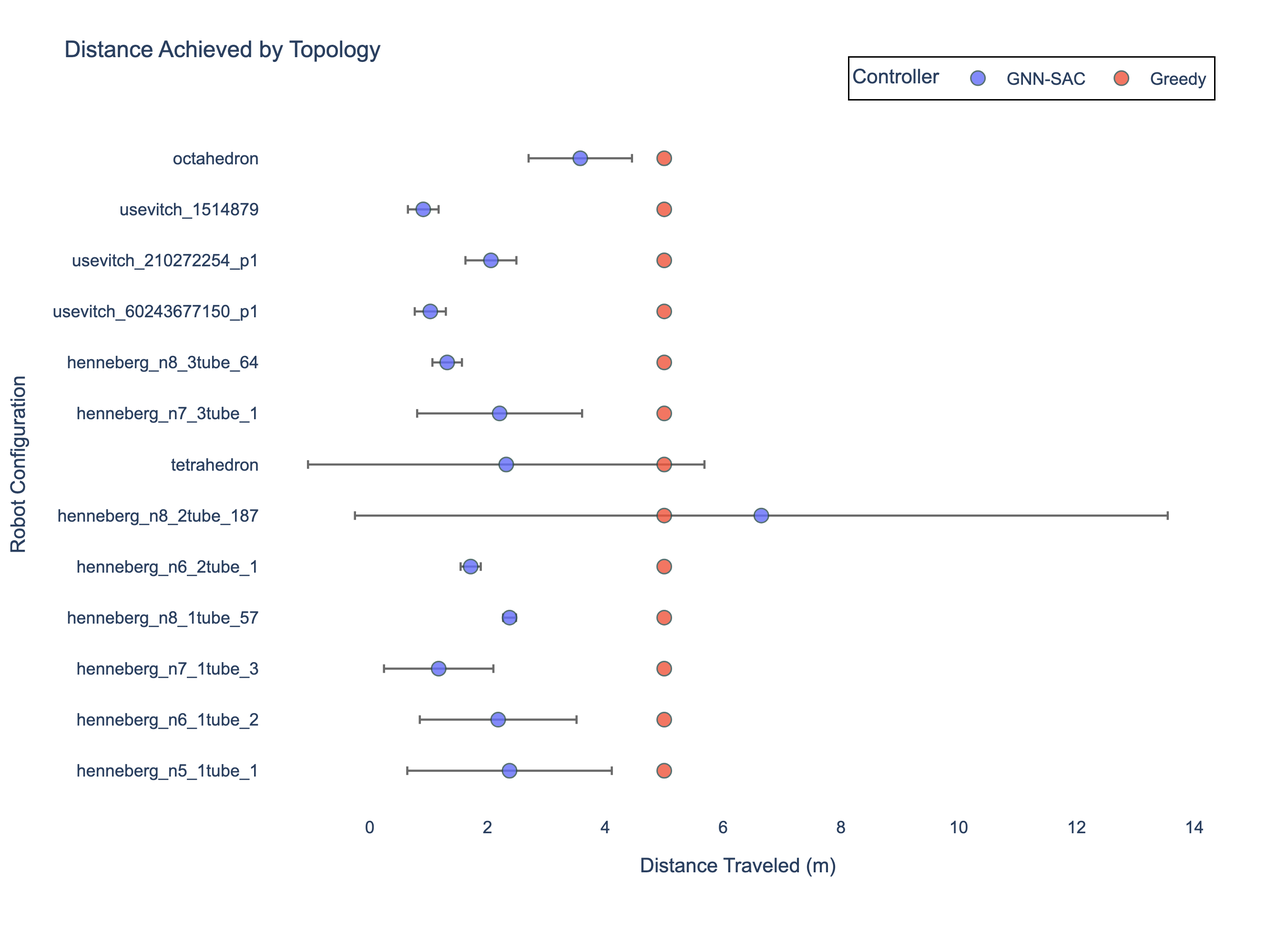
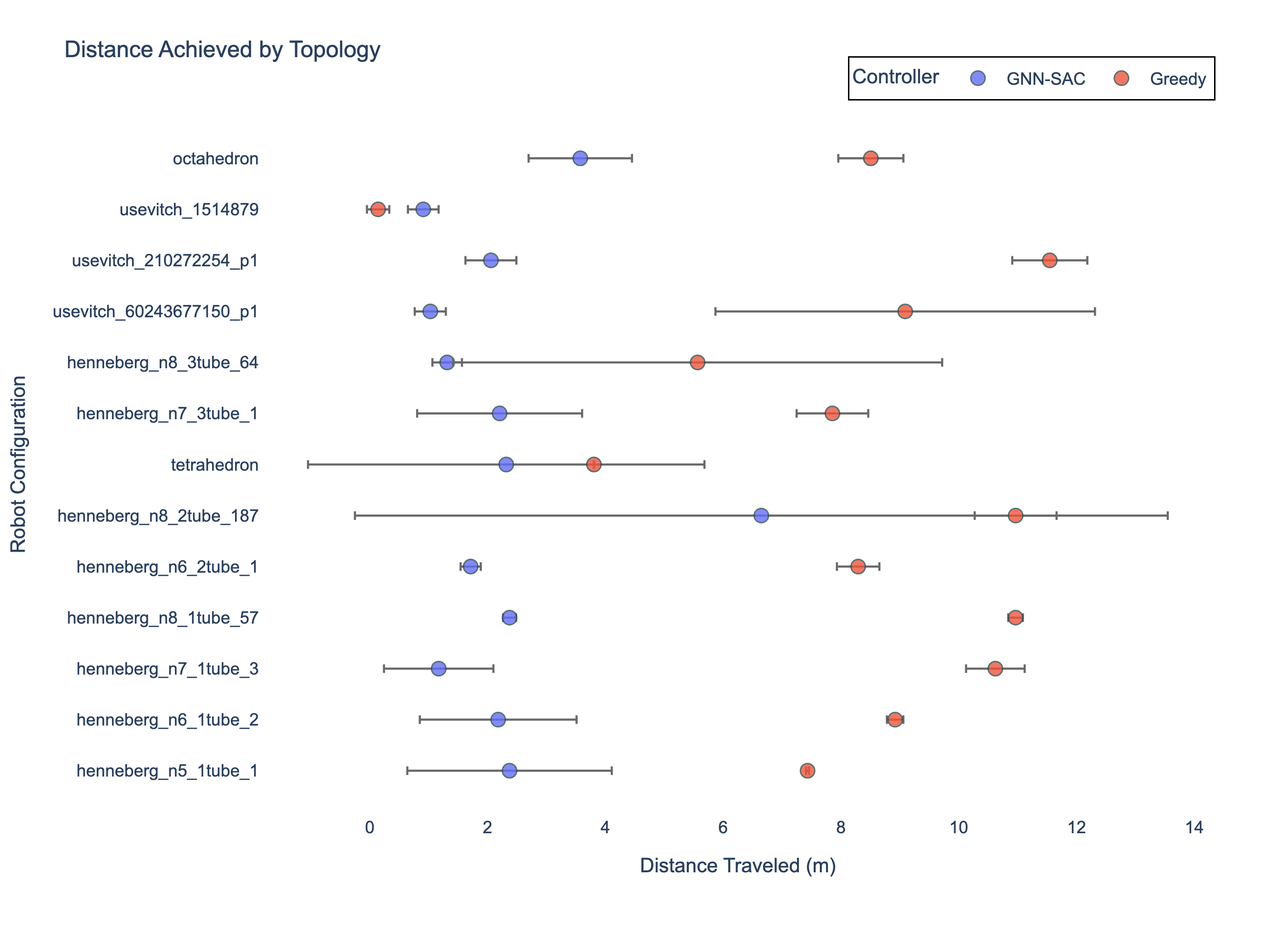
feat: plot measured greedy controller results

diff --git a/figures/distance_achieved_by_topology.html b/figures/distance_achieved_by_topology.html
@@ -2,6 +2,6 @@
 <head><meta charset="utf-8" /></head>
 <body>
     <div style="height:650px; width:900px;">                        <script>window.PlotlyConfig = {MathJaxConfig: 'local'};</script>
-        <script charset="utf-8" src="https://cdn.plot.ly/plotly-3.7.0.min.js" integrity="sha256-jvTGqxNp8AGWEcvNLVuKr+8j5dGe9Yw51LQkmDH+IYA=" crossorigin="anonymous"></script>                <div id="b5c908f1-36f0-49f9-b004-f3093df949d6" class="plotly-graph-div" style="height:100%; width:100%;"></div>            <script>                window.PLOTLYENV=window.PLOTLYENV || {};                                if (document.getElementById("b5c908f1-36f0-49f9-b004-f3093df949d6")) {                    Plotly.newPlot(                        "b5c908f1-36f0-49f9-b004-f3093df949d6",                        [{"customdata":{"dtype":"f8","bdata":"AAAAAAAACEAsBLjag8f7PwAAAAAAAAhAwbUco69K9T8AAAAAAAAIQHwbFSAoue0\u002fAAAAAAAACEAtQBm92wK8PwAAAAAAAAhAKJEHEYzhxT8AAAAAAAAIQPhhJsMNmhtAAAAAAAAACECdcKguCe0KQAAAAAAAAAhAm1oek8Jn9j8AAAAAAAAIQJLF910WDNA\u002fAAAAAAAACEDxzGaMtefQPwAAAAAAAAhAOjjf\u002f5Ku2z8AAAAAAAAIQMV0hl6prNA\u002fAAAAAAAAAECoL99Q9RXsPw==","shape":"13, 2"},"error_x":{"array":{"dtype":"f8","bdata":"LAS42oPH+z\u002fBtRyjr0r1P3wbFSAoue0\u002fLUAZvdsCvD8okQcRjOHFP\u002fhhJsMNmhtAnXCoLgntCkCbWh6Twmf2P5LF910WDNA\u002f8cxmjLXn0D86ON\u002f\u002fkq7bP8V0hl6prNA\u002fqC\u002ffUPUV7D8="},"color":"dimgray","thickness":1.5,"width":3},"hovertemplate":"Controller=GNN-SAC\u003cbr\u003eDistance Traveled (m)=%{x}\u003cbr\u003eRobot Configuration=%{y}\u003cbr\u003en_seeds=%{customdata[0]}\u003cbr\u003edistance_std_m=%{customdata[1]:.3f}\u003cextra\u003e\u003c\u002fextra\u003e","legendgroup":"GNN-SAC","marker":{"color":"#636EFA","symbol":"circle","line":{"color":"DarkSlateGrey","width":1},"opacity":0.8,"size":10},"mode":"markers","name":"GNN-SAC","orientation":"h","showlegend":true,"x":{"dtype":"f8","bdata":"4XC+PC78AkALuNlbzXABQD6tfDz5uPI\u002fk9DLrWn9AkDp6QR5TGr7PxFnb+w0mBpAzomSV3SJAkCF4WCiW6MBQLHZzOyaB\u002fU\u002fHXe9cPpw8D+0BgoE+XQAQPH78XPvD+0\u002f8DwwUG+YDEA="},"xaxis":"x","y":["henneberg_n5_1tube_1","henneberg_n6_1tube_2","henneberg_n7_1tube_3","henneberg_n8_1tube_57","henneberg_n6_2tube_1","henneberg_n8_2tube_187","tetrahedron","henneberg_n7_3tube_1","henneberg_n8_3tube_64","usevitch_60243677150_p1","usevitch_210272254_p1","usevitch_1514879","octahedron"],"yaxis":"y","type":"scatter"},{"customdata":{"dtype":"f8","bdata":"AAAAAAAAAAAAAAAAAAD4fwAAAAAAAAAAAAAAAAAA+H8AAAAAAAAAAAAAAAAAAPh\u002fAAAAAAAAAAAAAAAAAAD4fwAAAAAAAAAAAAAAAAAA+H8AAAAAAAAAAAAAAAAAAPh\u002fAAAAAAAAAAAAAAAAAAD4fwAAAAAAAAAAAAAAAAAA+H8AAAAAAAAAAAAAAAAAAPh\u002fAAAAAAAAAAAAAAAAAAD4fwAAAAAAAAAAAAAAAAAA+H8AAAAAAAAAAAAAAAAAAPh\u002fAAAAAAAAAAAAAAAAAAD4fw==","shape":"13, 2"},"error_x":{"array":{"dtype":"f8","bdata":"AAAAAAAA+H8AAAAAAAD4fwAAAAAAAPh\u002fAAAAAAAA+H8AAAAAAAD4fwAAAAAAAPh\u002fAAAAAAAA+H8AAAAAAAD4fwAAAAAAAPh\u002fAAAAAAAA+H8AAAAAAAD4fwAAAAAAAPh\u002fAAAAAAAA+H8="},"color":"dimgray","thickness":1.5,"width":3},"hovertemplate":"Controller=Greedy\u003cbr\u003eDistance Traveled (m)=%{x}\u003cbr\u003eRobot Configuration=%{y}\u003cbr\u003en_seeds=%{customdata[0]}\u003cbr\u003edistance_std_m=%{customdata[1]:.3f}\u003cextra\u003e\u003c\u002fextra\u003e","legendgroup":"Greedy","marker":{"color":"#EF553B","symbol":"circle","line":{"color":"DarkSlateGrey","width":1},"opacity":0.8,"size":10},"mode":"markers","name":"Greedy","orientation":"h","showlegend":true,"x":{"dtype":"f8","bdata":"AAAAAAAAFEAAAAAAAAAUQAAAAAAAABRAAAAAAAAAFEAAAAAAAAAUQAAAAAAAABRAAAAAAAAAFEAAAAAAAAAUQAAAAAAAABRAAAAAAAAAFEAAAAAAAAAUQAAAAAAAABRAAAAAAAAAFEA="},"xaxis":"x","y":["henneberg_n5_1tube_1","henneberg_n6_1tube_2","henneberg_n7_1tube_3","henneberg_n8_1tube_57","henneberg_n6_2tube_1","henneberg_n8_2tube_187","tetrahedron","henneberg_n7_3tube_1","henneberg_n8_3tube_64","usevitch_60243677150_p1","usevitch_210272254_p1","usevitch_1514879","octahedron"],"yaxis":"y","type":"scatter"}],                        {"template":{"data":{"histogram2dcontour":[{"type":"histogram2dcontour","colorbar":{"outlinewidth":0,"ticks":""},"colorscale":[[0.0,"#0d0887"],[0.1111111111111111,"#46039f"],[0.2222222222222222,"#7201a8"],[0.3333333333333333,"#9c179e"],[0.4444444444444444,"#bd3786"],[0.5555555555555556,"#d8576b"],[0.6666666666666666,"#ed7953"],[0.7777777777777778,"#fb9f3a"],[0.8888888888888888,"#fdca26"],[1.0,"#f0f921"]]}],"choropleth":[{"type":"choropleth","colorbar":{"outlinewidth":0,"ticks":""}}],"histogram2d":[{"type":"histogram2d","colorbar":{"outlinewidth":0,"ticks":""},"colorscale":[[0.0,"#0d0887"],[0.1111111111111111,"#46039f"],[0.2222222222222222,"#7201a8"],[0.3333333333333333,"#9c179e"],[0.4444444444444444,"#bd3786"],[0.5555555555555556,"#d8576b"],[0.6666666666666666,"#ed7953"],[0.7777777777777778,"#fb9f3a"],[0.8888888888888888,"#fdca26"],[1.0,"#f0f921"]]}],"heatmap":[{"type":"heatmap","colorbar":{"outlinewidth":0,"ticks":""},"colorscale":[[0.0,"#0d0887"],[0.1111111111111111,"#46039f"],[0.2222222222222222,"#7201a8"],[0.3333333333333333,"#9c179e"],[0.4444444444444444,"#bd3786"],[0.5555555555555556,"#d8576b"],[0.6666666666666666,"#ed7953"],[0.7777777777777778,"#fb9f3a"],[0.8888888888888888,"#fdca26"],[1.0,"#f0f921"]]}],"contourcarpet":[{"type":"contourcarpet","colorbar":{"outlinewidth":0,"ticks":""}}],"contour":[{"type":"contour","colorbar":{"outlinewidth":0,"ticks":""},"colorscale":[[0.0,"#0d0887"],[0.1111111111111111,"#46039f"],[0.2222222222222222,"#7201a8"],[0.3333333333333333,"#9c179e"],[0.4444444444444444,"#bd3786"],[0.5555555555555556,"#d8576b"],[0.6666666666666666,"#ed7953"],[0.7777777777777778,"#fb9f3a"],[0.8888888888888888,"#fdca26"],[1.0,"#f0f921"]]}],"surface":[{"type":"surface","colorbar":{"outlinewidth":0,"ticks":""},"colorscale":[[0.0,"#0d0887"],[0.1111111111111111,"#46039f"],[0.2222222222222222,"#7201a8"],[0.3333333333333333,"#9c179e"],[0.4444444444444444,"#bd3786"],[0.5555555555555556,"#d8576b"],[0.6666666666666666,"#ed7953"],[0.7777777777777778,"#fb9f3a"],[0.8888888888888888,"#fdca26"],[1.0,"#f0f921"]]}],"mesh3d":[{"type":"mesh3d","colorbar":{"outlinewidth":0,"ticks":""}}],"scatter":[{"fillpattern":{"fillmode":"overlay","size":10,"solidity":0.2},"type":"scatter"}],"parcoords":[{"type":"parcoords","line":{"colorbar":{"outlinewidth":0,"ticks":""}}}],"scatterpolargl":[{"type":"scatterpolargl","marker":{"colorbar":{"outlinewidth":0,"ticks":""}}}],"bar":[{"error_x":{"color":"#2a3f5f"},"error_y":{"color":"#2a3f5f"},"marker":{"line":{"color":"#E5ECF6","width":0.5},"pattern":{"fillmode":"overlay","size":10,"solidity":0.2}},"type":"bar"}],"scattergeo":[{"type":"scattergeo","marker":{"colorbar":{"outlinewidth":0,"ticks":""}}}],"scatterpolar":[{"type":"scatterpolar","marker":{"colorbar":{"outlinewidth":0,"ticks":""}}}],"histogram":[{"marker":{"pattern":{"fillmode":"overlay","size":10,"solidity":0.2}},"type":"histogram"}],"scattergl":[{"type":"scattergl","marker":{"colorbar":{"outlinewidth":0,"ticks":""}}}],"scatter3d":[{"type":"scatter3d","line":{"colorbar":{"outlinewidth":0,"ticks":""}},"marker":{"colorbar":{"outlinewidth":0,"ticks":""}}}],"scattermap":[{"type":"scattermap","marker":{"colorbar":{"outlinewidth":0,"ticks":""}}}],"scattermapbox":[{"type":"scattermapbox","marker":{"colorbar":{"outlinewidth":0,"ticks":""}}}],"scatterternary":[{"type":"scatterternary","marker":{"colorbar":{"outlinewidth":0,"ticks":""}}}],"scattercarpet":[{"type":"scattercarpet","marker":{"colorbar":{"outlinewidth":0,"ticks":""}}}],"carpet":[{"aaxis":{"endlinecolor":"#2a3f5f","gridcolor":"white","linecolor":"white","minorgridcolor":"white","startlinecolor":"#2a3f5f"},"baxis":{"endlinecolor":"#2a3f5f","gridcolor":"white","linecolor":"white","minorgridcolor":"white","startlinecolor":"#2a3f5f"},"type":"carpet"}],"table":[{"cells":{"fill":{"color":"#EBF0F8"},"line":{"color":"white"}},"header":{"fill":{"color":"#C8D4E3"},"line":{"color":"white"}},"type":"table"}],"barpolar":[{"marker":{"line":{"color":"#E5ECF6","width":0.5},"pattern":{"fillmode":"overlay","size":10,"solidity":0.2}},"type":"barpolar"}],"pie":[{"automargin":true,"type":"pie"}]},"layout":{"autotypenumbers":"strict","colorway":["#636efa","#EF553B","#00cc96","#ab63fa","#FFA15A","#19d3f3","#FF6692","#B6E880","#FF97FF","#FECB52"],"font":{"color":"#2a3f5f"},"hovermode":"closest","hoverlabel":{"align":"left"},"paper_bgcolor":"white","plot_bgcolor":"#E5ECF6","polar":{"bgcolor":"#E5ECF6","angularaxis":{"gridcolor":"white","linecolor":"white","ticks":""},"radialaxis":{"gridcolor":"white","linecolor":"white","ticks":""}},"ternary":{"bgcolor":"#E5ECF6","aaxis":{"gridcolor":"white","linecolor":"white","ticks":""},"baxis":{"gridcolor":"white","linecolor":"white","ticks":""},"caxis":{"gridcolor":"white","linecolor":"white","ticks":""}},"coloraxis":{"colorbar":{"outlinewidth":0,"ticks":""}},"colorscale":{"sequential":[[0.0,"#0d0887"],[0.1111111111111111,"#46039f"],[0.2222222222222222,"#7201a8"],[0.3333333333333333,"#9c179e"],[0.4444444444444444,"#bd3786"],[0.5555555555555556,"#d8576b"],[0.6666666666666666,"#ed7953"],[0.7777777777777778,"#fb9f3a"],[0.8888888888888888,"#fdca26"],[1.0,"#f0f921"]],"sequentialminus":[[0.0,"#0d0887"],[0.1111111111111111,"#46039f"],[0.2222222222222222,"#7201a8"],[0.3333333333333333,"#9c179e"],[0.4444444444444444,"#bd3786"],[0.5555555555555556,"#d8576b"],[0.6666666666666666,"#ed7953"],[0.7777777777777778,"#fb9f3a"],[0.8888888888888888,"#fdca26"],[1.0,"#f0f921"]],"diverging":[[0,"#8e0152"],[0.1,"#c51b7d"],[0.2,"#de77ae"],[0.3,"#f1b6da"],[0.4,"#fde0ef"],[0.5,"#f7f7f7"],[0.6,"#e6f5d0"],[0.7,"#b8e186"],[0.8,"#7fbc41"],[0.9,"#4d9221"],[1,"#276419"]]},"xaxis":{"gridcolor":"white","linecolor":"white","ticks":"","title":{"standoff":15},"zerolinecolor":"white","automargin":true,"zerolinewidth":2},"yaxis":{"gridcolor":"white","linecolor":"white","ticks":"","title":{"standoff":15},"zerolinecolor":"white","automargin":true,"zerolinewidth":2},"scene":{"xaxis":{"backgroundcolor":"#E5ECF6","gridcolor":"white","linecolor":"white","showbackground":true,"ticks":"","zerolinecolor":"white","gridwidth":2},"yaxis":{"backgroundcolor":"#E5ECF6","gridcolor":"white","linecolor":"white","showbackground":true,"ticks":"","zerolinecolor":"white","gridwidth":2},"zaxis":{"backgroundcolor":"#E5ECF6","gridcolor":"white","linecolor":"white","showbackground":true,"ticks":"","zerolinecolor":"white","gridwidth":2}},"shapedefaults":{"line":{"color":"#2a3f5f"}},"annotationdefaults":{"arrowcolor":"#2a3f5f","arrowhead":0,"arrowwidth":1},"geo":{"bgcolor":"white","landcolor":"#E5ECF6","subunitcolor":"white","showland":true,"showlakes":true,"lakecolor":"white"},"title":{"x":0.05},"mapbox":{"style":"light"}}},"xaxis":{"anchor":"y","domain":[0.0,1.0],"title":{"text":"Distance Traveled (m)","font":{"size":14}},"tickfont":{"size":12},"showgrid":false},"yaxis":{"anchor":"x","domain":[0.0,1.0],"title":{"text":"Robot Configuration","font":{"size":14}},"categoryorder":"array","categoryarray":["henneberg_n5_1tube_1","henneberg_n6_1tube_2","henneberg_n7_1tube_3","henneberg_n8_1tube_57","henneberg_n6_2tube_1","henneberg_n8_2tube_187","tetrahedron","henneberg_n7_3tube_1","henneberg_n8_3tube_64","usevitch_60243677150_p1","usevitch_210272254_p1","usevitch_1514879","octahedron"],"tickfont":{"size":12},"showgrid":false},"legend":{"title":{"text":"Controller"},"tracegroupgap":0,"font":{"size":12},"orientation":"h","yanchor":"bottom","y":1.02,"xanchor":"right","x":1,"bgcolor":"rgba(255,255,255,0.7)","bordercolor":"black","borderwidth":1},"title":{"text":"Distance Achieved by Topology","font":{"size":16}},"font":{"family":"Arial","size":12},"margin":{"l":100,"r":50,"t":80,"b":80},"plot_bgcolor":"white","paper_bgcolor":"white","width":900,"height":650},                        {"responsive": true}                    )                };            </script>        </div>
+        <script charset="utf-8" src="https://cdn.plot.ly/plotly-3.7.0.min.js" integrity="sha256-jvTGqxNp8AGWEcvNLVuKr+8j5dGe9Yw51LQkmDH+IYA=" crossorigin="anonymous"></script>                <div id="e9306b8b-1fdd-4f87-9530-d86e20cd4594" class="plotly-graph-div" style="height:100%; width:100%;"></div>            <script>                window.PLOTLYENV=window.PLOTLYENV || {};                                if (document.getElementById("e9306b8b-1fdd-4f87-9530-d86e20cd4594")) {                    Plotly.newPlot(                        "e9306b8b-1fdd-4f87-9530-d86e20cd4594",                        [{"customdata":{"dtype":"f8","bdata":"AAAAAAAACEAsBLjag8f7PwAAAAAAAAhAwbUco69K9T8AAAAAAAAIQHwbFSAoue0\u002fAAAAAAAACEArQBm92wK8PwAAAAAAAAhAJ5EHEYzhxT8AAAAAAAAIQPhhJsMNmhtAAAAAAAAACECdcKguCe0KQAAAAAAAAAhAm1oek8Jn9j8AAAAAAAAIQJLF910WDNA\u002fAAAAAAAACEDwzGaMtefQPwAAAAAAAAhAOTjf\u002f5Ku2z8AAAAAAAAIQMR0hl6prNA\u002fAAAAAAAAAECoL99Q9RXsPw==","shape":"13, 2"},"error_x":{"array":{"dtype":"f8","bdata":"LAS42oPH+z\u002fBtRyjr0r1P3wbFSAoue0\u002fK0AZvdsCvD8nkQcRjOHFP\u002fhhJsMNmhtAnXCoLgntCkCbWh6Twmf2P5LF910WDNA\u002f8MxmjLXn0D85ON\u002f\u002fkq7bP8R0hl6prNA\u002fqC\u002ffUPUV7D8="},"color":"dimgray","thickness":1.5,"width":3},"hovertemplate":"Controller=GNN-SAC\u003cbr\u003eDistance Traveled (m)=%{x}\u003cbr\u003eRobot Configuration=%{y}\u003cbr\u003en_seeds=%{customdata[0]}\u003cbr\u003edistance_std_m=%{customdata[1]:.3f}\u003cextra\u003e\u003c\u002fextra\u003e","legendgroup":"GNN-SAC","marker":{"color":"#636EFA","symbol":"circle","line":{"color":"DarkSlateGrey","width":1},"opacity":0.8,"size":10},"mode":"markers","name":"GNN-SAC","orientation":"h","showlegend":true,"x":{"dtype":"f8","bdata":"4XC+PC78AkALuNlbzXABQD6tfDz5uPI\u002fk9DLrWn9AkDp6QR5TGr7PxFnb+w0mBpAzomSV3SJAkCF4WCiW6MBQLHZzOyaB\u002fU\u002fHXe9cPpw8D+0BgoE+XQAQPL78XPvD+0\u002f8DwwUG+YDEA="},"xaxis":"x","y":["henneberg_n5_1tube_1","henneberg_n6_1tube_2","henneberg_n7_1tube_3","henneberg_n8_1tube_57","henneberg_n6_2tube_1","henneberg_n8_2tube_187","tetrahedron","henneberg_n7_3tube_1","henneberg_n8_3tube_64","usevitch_60243677150_p1","usevitch_210272254_p1","usevitch_1514879","octahedron"],"yaxis":"y","type":"scatter"},{"customdata":{"dtype":"f8","bdata":"AAAAAAAA+H\u002fcEG+2R+yaPwAAAAAAAPh\u002fy+5\u002fjUfXwT8AAAAAAAD4f5Lyhyzd2N8\u002fAAAAAAAA+H8t5hdlZ8a\u002fPwAAAAAAAPh\u002fedsmK4wR1z8AAAAAAAD4f0w\u002fdQ1FQOY\u002fAAAAAAAA+H\u002fweGABHHFsPwAAAAAAAPh\u002f36uyPTR24z8AAAAAAAD4fzOOvrGpmxBAAAAAAAAA+H8rdTB+ecYJQAAAAAAAAPh\u002fULsXY9tk5D8AAAAAAAD4f6ZQq+v7Q8g\u002fAAAAAAAA+H+FBVoahbHhPw==","shape":"13, 2"},"error_x":{"array":{"dtype":"f8","bdata":"3BBvtkfsmj\u002fL7n+NR9fBP5Lyhyzd2N8\u002fLeYXZWfGvz952yYrjBHXP0w\u002fdQ1FQOY\u002f8HhgARxxbD\u002ffq7I9NHbjPzOOvrGpmxBAK3UwfnnGCUBQuxdj22TkP6ZQq+v7Q8g\u002fhQVaGoWx4T8="},"color":"dimgray","thickness":1.5,"width":3},"hovertemplate":"Controller=Greedy\u003cbr\u003eDistance Traveled (m)=%{x}\u003cbr\u003eRobot Configuration=%{y}\u003cbr\u003edistance_std_m=%{customdata[1]:.3f}\u003cextra\u003e\u003c\u002fextra\u003e","legendgroup":"Greedy","marker":{"color":"#EF553B","symbol":"circle","line":{"color":"DarkSlateGrey","width":1},"opacity":0.8,"size":10},"mode":"markers","name":"Greedy","orientation":"h","showlegend":true,"x":{"dtype":"f8","bdata":"6gQ0ETa8HUAICCPAOtchQCx2Xbu4PiVA8wK5TUDuJUCZYPKi3pUgQMqzcAzl7iVAaIcFlMNyDkB\u002fnFjETmwfQGAyyhZbRBZAbGTchfwuIkCGnLuBvxcnQKDN2B9zHcI\u002fmgts2CMEIUA="},"xaxis":"x","y":["henneberg_n5_1tube_1","henneberg_n6_1tube_2","henneberg_n7_1tube_3","henneberg_n8_1tube_57","henneberg_n6_2tube_1","henneberg_n8_2tube_187","tetrahedron","henneberg_n7_3tube_1","henneberg_n8_3tube_64","usevitch_60243677150_p1","usevitch_210272254_p1","usevitch_1514879","octahedron"],"yaxis":"y","type":"scatter"}],                        {"template":{"data":{"histogram2dcontour":[{"type":"histogram2dcontour","colorbar":{"outlinewidth":0,"ticks":""},"colorscale":[[0.0,"#0d0887"],[0.1111111111111111,"#46039f"],[0.2222222222222222,"#7201a8"],[0.3333333333333333,"#9c179e"],[0.4444444444444444,"#bd3786"],[0.5555555555555556,"#d8576b"],[0.6666666666666666,"#ed7953"],[0.7777777777777778,"#fb9f3a"],[0.8888888888888888,"#fdca26"],[1.0,"#f0f921"]]}],"choropleth":[{"type":"choropleth","colorbar":{"outlinewidth":0,"ticks":""}}],"histogram2d":[{"type":"histogram2d","colorbar":{"outlinewidth":0,"ticks":""},"colorscale":[[0.0,"#0d0887"],[0.1111111111111111,"#46039f"],[0.2222222222222222,"#7201a8"],[0.3333333333333333,"#9c179e"],[0.4444444444444444,"#bd3786"],[0.5555555555555556,"#d8576b"],[0.6666666666666666,"#ed7953"],[0.7777777777777778,"#fb9f3a"],[0.8888888888888888,"#fdca26"],[1.0,"#f0f921"]]}],"heatmap":[{"type":"heatmap","colorbar":{"outlinewidth":0,"ticks":""},"colorscale":[[0.0,"#0d0887"],[0.1111111111111111,"#46039f"],[0.2222222222222222,"#7201a8"],[0.3333333333333333,"#9c179e"],[0.4444444444444444,"#bd3786"],[0.5555555555555556,"#d8576b"],[0.6666666666666666,"#ed7953"],[0.7777777777777778,"#fb9f3a"],[0.8888888888888888,"#fdca26"],[1.0,"#f0f921"]]}],"contourcarpet":[{"type":"contourcarpet","colorbar":{"outlinewidth":0,"ticks":""}}],"contour":[{"type":"contour","colorbar":{"outlinewidth":0,"ticks":""},"colorscale":[[0.0,"#0d0887"],[0.1111111111111111,"#46039f"],[0.2222222222222222,"#7201a8"],[0.3333333333333333,"#9c179e"],[0.4444444444444444,"#bd3786"],[0.5555555555555556,"#d8576b"],[0.6666666666666666,"#ed7953"],[0.7777777777777778,"#fb9f3a"],[0.8888888888888888,"#fdca26"],[1.0,"#f0f921"]]}],"surface":[{"type":"surface","colorbar":{"outlinewidth":0,"ticks":""},"colorscale":[[0.0,"#0d0887"],[0.1111111111111111,"#46039f"],[0.2222222222222222,"#7201a8"],[0.3333333333333333,"#9c179e"],[0.4444444444444444,"#bd3786"],[0.5555555555555556,"#d8576b"],[0.6666666666666666,"#ed7953"],[0.7777777777777778,"#fb9f3a"],[0.8888888888888888,"#fdca26"],[1.0,"#f0f921"]]}],"mesh3d":[{"type":"mesh3d","colorbar":{"outlinewidth":0,"ticks":""}}],"scatter":[{"fillpattern":{"fillmode":"overlay","size":10,"solidity":0.2},"type":"scatter"}],"parcoords":[{"type":"parcoords","line":{"colorbar":{"outlinewidth":0,"ticks":""}}}],"scatterpolargl":[{"type":"scatterpolargl","marker":{"colorbar":{"outlinewidth":0,"ticks":""}}}],"bar":[{"error_x":{"color":"#2a3f5f"},"error_y":{"color":"#2a3f5f"},"marker":{"line":{"color":"#E5ECF6","width":0.5},"pattern":{"fillmode":"overlay","size":10,"solidity":0.2}},"type":"bar"}],"scattergeo":[{"type":"scattergeo","marker":{"colorbar":{"outlinewidth":0,"ticks":""}}}],"scatterpolar":[{"type":"scatterpolar","marker":{"colorbar":{"outlinewidth":0,"ticks":""}}}],"histogram":[{"marker":{"pattern":{"fillmode":"overlay","size":10,"solidity":0.2}},"type":"histogram"}],"scattergl":[{"type":"scattergl","marker":{"colorbar":{"outlinewidth":0,"ticks":""}}}],"scatter3d":[{"type":"scatter3d","line":{"colorbar":{"outlinewidth":0,"ticks":""}},"marker":{"colorbar":{"outlinewidth":0,"ticks":""}}}],"scattermap":[{"type":"scattermap","marker":{"colorbar":{"outlinewidth":0,"ticks":""}}}],"scattermapbox":[{"type":"scattermapbox","marker":{"colorbar":{"outlinewidth":0,"ticks":""}}}],"scatterternary":[{"type":"scatterternary","marker":{"colorbar":{"outlinewidth":0,"ticks":""}}}],"scattercarpet":[{"type":"scattercarpet","marker":{"colorbar":{"outlinewidth":0,"ticks":""}}}],"carpet":[{"aaxis":{"endlinecolor":"#2a3f5f","gridcolor":"white","linecolor":"white","minorgridcolor":"white","startlinecolor":"#2a3f5f"},"baxis":{"endlinecolor":"#2a3f5f","gridcolor":"white","linecolor":"white","minorgridcolor":"white","startlinecolor":"#2a3f5f"},"type":"carpet"}],"table":[{"cells":{"fill":{"color":"#EBF0F8"},"line":{"color":"white"}},"header":{"fill":{"color":"#C8D4E3"},"line":{"color":"white"}},"type":"table"}],"barpolar":[{"marker":{"line":{"color":"#E5ECF6","width":0.5},"pattern":{"fillmode":"overlay","size":10,"solidity":0.2}},"type":"barpolar"}],"pie":[{"automargin":true,"type":"pie"}]},"layout":{"autotypenumbers":"strict","colorway":["#636efa","#EF553B","#00cc96","#ab63fa","#FFA15A","#19d3f3","#FF6692","#B6E880","#FF97FF","#FECB52"],"font":{"color":"#2a3f5f"},"hovermode":"closest","hoverlabel":{"align":"left"},"paper_bgcolor":"white","plot_bgcolor":"#E5ECF6","polar":{"bgcolor":"#E5ECF6","angularaxis":{"gridcolor":"white","linecolor":"white","ticks":""},"radialaxis":{"gridcolor":"white","linecolor":"white","ticks":""}},"ternary":{"bgcolor":"#E5ECF6","aaxis":{"gridcolor":"white","linecolor":"white","ticks":""},"baxis":{"gridcolor":"white","linecolor":"white","ticks":""},"caxis":{"gridcolor":"white","linecolor":"white","ticks":""}},"coloraxis":{"colorbar":{"outlinewidth":0,"ticks":""}},"colorscale":{"sequential":[[0.0,"#0d0887"],[0.1111111111111111,"#46039f"],[0.2222222222222222,"#7201a8"],[0.3333333333333333,"#9c179e"],[0.4444444444444444,"#bd3786"],[0.5555555555555556,"#d8576b"],[0.6666666666666666,"#ed7953"],[0.7777777777777778,"#fb9f3a"],[0.8888888888888888,"#fdca26"],[1.0,"#f0f921"]],"sequentialminus":[[0.0,"#0d0887"],[0.1111111111111111,"#46039f"],[0.2222222222222222,"#7201a8"],[0.3333333333333333,"#9c179e"],[0.4444444444444444,"#bd3786"],[0.5555555555555556,"#d8576b"],[0.6666666666666666,"#ed7953"],[0.7777777777777778,"#fb9f3a"],[0.8888888888888888,"#fdca26"],[1.0,"#f0f921"]],"diverging":[[0,"#8e0152"],[0.1,"#c51b7d"],[0.2,"#de77ae"],[0.3,"#f1b6da"],[0.4,"#fde0ef"],[0.5,"#f7f7f7"],[0.6,"#e6f5d0"],[0.7,"#b8e186"],[0.8,"#7fbc41"],[0.9,"#4d9221"],[1,"#276419"]]},"xaxis":{"gridcolor":"white","linecolor":"white","ticks":"","title":{"standoff":15},"zerolinecolor":"white","automargin":true,"zerolinewidth":2},"yaxis":{"gridcolor":"white","linecolor":"white","ticks":"","title":{"standoff":15},"zerolinecolor":"white","automargin":true,"zerolinewidth":2},"scene":{"xaxis":{"backgroundcolor":"#E5ECF6","gridcolor":"white","linecolor":"white","showbackground":true,"ticks":"","zerolinecolor":"white","gridwidth":2},"yaxis":{"backgroundcolor":"#E5ECF6","gridcolor":"white","linecolor":"white","showbackground":true,"ticks":"","zerolinecolor":"white","gridwidth":2},"zaxis":{"backgroundcolor":"#E5ECF6","gridcolor":"white","linecolor":"white","showbackground":true,"ticks":"","zerolinecolor":"white","gridwidth":2}},"shapedefaults":{"line":{"color":"#2a3f5f"}},"annotationdefaults":{"arrowcolor":"#2a3f5f","arrowhead":0,"arrowwidth":1},"geo":{"bgcolor":"white","landcolor":"#E5ECF6","subunitcolor":"white","showland":true,"showlakes":true,"lakecolor":"white"},"title":{"x":0.05},"mapbox":{"style":"light"}}},"xaxis":{"anchor":"y","domain":[0.0,1.0],"title":{"text":"Distance Traveled (m)","font":{"size":14}},"tickfont":{"size":12},"showgrid":false},"yaxis":{"anchor":"x","domain":[0.0,1.0],"title":{"text":"Robot Configuration","font":{"size":14}},"categoryorder":"array","categoryarray":["henneberg_n5_1tube_1","henneberg_n6_1tube_2","henneberg_n7_1tube_3","henneberg_n8_1tube_57","henneberg_n6_2tube_1","henneberg_n8_2tube_187","tetrahedron","henneberg_n7_3tube_1","henneberg_n8_3tube_64","usevitch_60243677150_p1","usevitch_210272254_p1","usevitch_1514879","octahedron"],"tickfont":{"size":12},"showgrid":false},"legend":{"title":{"text":"Controller"},"tracegroupgap":0,"font":{"size":12},"orientation":"h","yanchor":"bottom","y":1.02,"xanchor":"right","x":1,"bgcolor":"rgba(255,255,255,0.7)","bordercolor":"black","borderwidth":1},"title":{"text":"Distance Achieved by Topology","font":{"size":16}},"font":{"family":"Arial","size":12},"margin":{"l":100,"r":50,"t":80,"b":80},"plot_bgcolor":"white","paper_bgcolor":"white","width":900,"height":650},                        {"responsive": true}                    )                };            </script>        </div>
 </body>
 </html>

diff --git a/figures/plot_distance_by_topology.py b/figures/plot_distance_by_topology.py
@@ -28,6 +28,7 @@ TOPOLOGIES = [
     "octahedron",
 ]
 METRIC = "eval/episode_distance"
+DEFAULT_GREEDY_METRICS = Path(__file__).with_name("greedy_metrics.csv")
 
 
 def _finite_float(value: Any) -> float | None:
@@ -93,18 +94,60 @@ def aggregate_results(seed_results: pd.DataFrame) -> pd.DataFrame:
     return aggregate.sort_values("topology").reset_index(drop=True)
 
 
-def make_figure(aggregate: pd.DataFrame):
+def load_greedy_results(path: Path = DEFAULT_GREEDY_METRICS) -> pd.DataFrame:
+    """Load and validate measured greedy-controller distance summaries."""
+    greedy = pd.read_csv(path)
+    required_columns = {"topology", "distance_m", "distance_std_m"}
+    missing_columns = required_columns - set(greedy.columns)
+    if missing_columns:
+        raise ValueError(
+            f"Greedy metrics are missing columns: {', '.join(sorted(missing_columns))}"
+        )
+
+    duplicate_topologies = sorted(
+        greedy.loc[greedy["topology"].duplicated(), "topology"].astype(str).unique()
+    )
+    if duplicate_topologies:
+        raise ValueError(
+            f"Greedy metrics contain duplicate topologies: "
+            f"{', '.join(duplicate_topologies)}"
+        )
+
+    available_topologies = set(greedy["topology"])
+    missing_topologies = [name for name in TOPOLOGIES if name not in available_topologies]
+    extra_topologies = sorted(available_topologies - set(TOPOLOGIES))
+    if missing_topologies or extra_topologies:
+        details = []
+        if missing_topologies:
+            details.append(f"missing: {', '.join(missing_topologies)}")
+        if extra_topologies:
+            details.append(f"unexpected: {', '.join(extra_topologies)}")
+        raise ValueError(f"Greedy metrics topology mismatch ({'; '.join(details)})")
+
+    for column in ("distance_m", "distance_std_m"):
+        greedy[column] = pd.to_numeric(greedy[column], errors="coerce")
+        invalid = ~greedy[column].map(lambda value: math.isfinite(float(value)))
+        if invalid.any():
+            names = ", ".join(greedy.loc[invalid, "topology"].astype(str))
+            raise ValueError(f"Greedy metrics contain invalid {column} for: {names}")
+    if (greedy["distance_std_m"] < 0).any():
+        names = ", ".join(
+            greedy.loc[greedy["distance_std_m"] < 0, "topology"].astype(str)
+        )
+        raise ValueError(f"Greedy metrics contain negative distance_std_m for: {names}")
+
+    greedy["topology"] = pd.Categorical(
+        greedy["topology"], categories=TOPOLOGIES, ordered=True
+    )
+    return greedy.sort_values("topology").reset_index(drop=True)
+
+
+def make_figure(aggregate: pd.DataFrame, greedy_metrics: pd.DataFrame | None = None):
     """Create the RA-L-style horizontal distance plot."""
     gnn_sac = aggregate.assign(controller="GNN-SAC")
-    greedy = pd.DataFrame(
-        {
-            "topology": TOPOLOGIES,
-            "distance_m": 5.0,
-            "distance_std_m": float("nan"),
-            "n_seeds": 0,
-            "controller": "Greedy",
-        }
-    )
+    greedy = (
+        load_greedy_results() if greedy_metrics is None else greedy_metrics.copy()
+    ).assign(n_seeds=float("nan"), controller="Greedy")
     plot_data = pd.concat([gnn_sac, greedy], ignore_index=True)
     fig = px.scatter(
         plot_data,
@@ -144,6 +187,14 @@ def make_figure(aggregate: pd.DataFrame):
         error_x=dict(thickness=1.5, width=3, color="dimgray"),
         selector=dict(mode="markers"),
     )
+    fig.update_traces(
+        hovertemplate=(
+            "Controller=Greedy<br>Distance Traveled (m)=%{x}<br>"
+            "Robot Configuration=%{y}<br>distance_std_m=%{customdata[1]:.3f}"
+            "<extra></extra>"
+        ),
+        selector=dict(name="Greedy"),
+    )
     return fig
 
 
@@ -153,6 +204,12 @@ def parse_args() -> argparse.Namespace:
     parser.add_argument(
         "--run-prefix", default="paper-v2-",
         help="Only include run names beginning with this value; pass '' for all runs.",
+    )
+    parser.add_argument(
+        "--greedy-metrics",
+        type=Path,
+        default=DEFAULT_GREEDY_METRICS,
+        help="CSV containing measured greedy distance_m and distance_std_m by topology.",
     )
     parser.add_argument("--output-dir", type=Path, default=Path(__file__).resolve().parent)
     parser.add_argument("--show", action="store_true", help="Open an interactive window.")
@@ -172,7 +229,7 @@ def main() -> None:
     seed_results.to_csv(args.output_dir / "distance_by_topology_seed_results.csv", index=False)
     aggregate.to_csv(args.output_dir / "distance_by_topology_summary.csv", index=False)
 
-    fig = make_figure(aggregate)
+    fig = make_figure(aggregate, load_greedy_results(args.greedy_metrics))
     fig.write_image(args.output_dir / "distance_achieved_by_topology.png", scale=3)
     fig.write_html(
         args.output_dir / "distance_achieved_by_topology.html", include_plotlyjs="cdn"

diff --git a/tests/test_plot_distance_by_topology.py b/tests/test_plot_distance_by_topology.py
@@ -5,6 +5,7 @@ from figures.plot_distance_by_topology import (
     TOPOLOGIES,
     aggregate_results,
     collect_seed_results,
+    load_greedy_results,
     make_figure,
 )
 
@@ -38,13 +39,17 @@ class DistanceByTopologyTest(unittest.TestCase):
         self.assertAlmostEqual(summary.iloc[0]["distance_std_m"], 2**0.5)
         self.assertEqual(summary.iloc[0]["n_seeds"], 2)
 
-    def test_greedy_placeholder_has_no_error_bars(self):
+    def test_greedy_measurements_include_per_topology_error_bars(self):
         rows = collect_seed_results([_run("one", 1, 2.0, 100)], "paper-v2-")
         figure = make_figure(aggregate_results(rows))
         greedy = next(trace for trace in figure.data if trace.name == "Greedy")
 
-        self.assertEqual(list(greedy.x), [5.0] * len(TOPOLOGIES))
-        self.assertTrue(all(value != value for value in greedy.error_x.array))
+        metrics = load_greedy_results()
+        self.assertEqual(list(greedy.x), list(metrics["distance_m"]))
+        self.assertEqual(list(greedy.error_x.array), list(metrics["distance_std_m"]))
+        self.assertAlmostEqual(greedy.x[0], 7.4338)
+        self.assertAlmostEqual(greedy.x[-1], 8.50808597868836)
+        self.assertTrue(all(value == value for value in greedy.error_x.array))
 
 
 if __name__ == "__main__":
